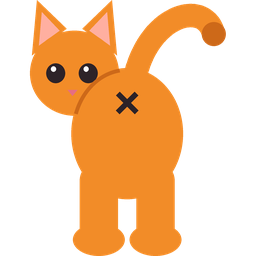
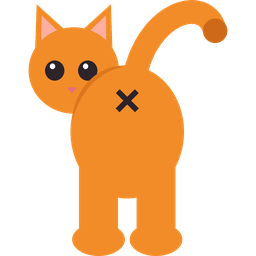
v0.7.0: single cat card, editable titles, responsive weight chart

diff --git a/custom_components/litter_cat_identifier/frontend/litter-cat-identifier-cards.js b/custom_components/litter_cat_identifier/frontend/litter-cat-identifier-cards.js
@@ -1,7 +1,8 @@
 /*
  * Litter Cat Identifier – dashboard cards.
  * Served by the integration and loaded automatically; no HACS frontend install needed.
- *   custom:litter-cat-identifier-cats     photo, name, weight, visits today, last visit
+ *   custom:litter-cat-identifier-cat      one cat: photo, name, weight, visits today, last visit
+ *   custom:litter-cat-identifier-cats     several cats together
  *   custom:litter-cat-identifier-visits   recent visits with reasons for unidentified readings
  *   custom:litter-cat-identifier-weight   weight history per cat (statistics graph)
  *   custom:litter-cat-identifier-box      clean now, auto-clean, today's summary
@@ -32,7 +33,10 @@ const I18N = {
       period: "Period", chart_type: "Chart type", stat: "Value", clean_entity: "Cleaning entity (switch, button or script)",
       auto_clean_entity: "Automatic cleaning switch (optional)", confirm: "Ask before cleaning", show_today: "Show today's summary",
       hour: "Hour", day: "Day", week: "Week", month: "Month", line: "Line", bar: "Bars", mean: "Average", min: "Minimum", max: "Maximum",
+      show_title: "Show title", cat: "Cat", cats: "Cats to show (empty = all)", layout: "Layout", horizontal: "Horizontal", vertical: "Vertical",
+      show_photo: "Show photo", avatar_size: "Photo size (px)", color: "Icon colour (when there's no photo)",
     },
+    pickCat: "Pick a cat in the card editor.",
   },
   es: {
     cats: "Gatos", visits: "Últimas visitas", weight: "Peso", box: "Arenero", none: "Sin visitas todavía",
@@ -54,7 +58,10 @@ const I18N = {
       period: "Periodo", chart_type: "Tipo de gráfica", stat: "Valor", clean_entity: "Entidad de limpieza (interruptor, botón o script)",
       auto_clean_entity: "Interruptor de limpieza automática (opcional)", confirm: "Preguntar antes de limpiar", show_today: "Mostrar resumen de hoy",
       hour: "Hora", day: "Día", week: "Semana", month: "Mes", line: "Línea", bar: "Barras", mean: "Media", min: "Mínimo", max: "Máximo",
+      show_title: "Mostrar título", cat: "Gato", cats: "Gatos a mostrar (vacío = todos)", layout: "Disposición", horizontal: "Horizontal", vertical: "Vertical",
+      show_photo: "Mostrar foto", avatar_size: "Tamaño de la foto (px)", color: "Color del icono (si no hay foto)",
     },
+    pickCat: "Elige un gato en el editor de la tarjeta.",
   },
 };
 
@@ -113,9 +120,13 @@ const STYLE = `
   .lci-cats { display: grid; grid-template-columns: repeat(var(--lci-cols, 2), minmax(0, 1fr)); gap: 12px; }
   .lci-cat { display: flex; align-items: center; gap: 12px; padding: 10px; border-radius: 12px;
              background: var(--secondary-background-color); cursor: pointer; min-width: 0; }
-  .lci-avatar { width: 52px; height: 52px; border-radius: 50%; flex: none; object-fit: cover;
+  .lci-cat.vertical { flex-direction: column; text-align: center; }
+  .lci-cat.vertical > div { width: 100%; }
+  .lci-single .lci-cat { background: none; padding: 0; }
+  .lci-avatar { width: var(--lci-avatar, 52px); height: var(--lci-avatar, 52px); border-radius: 50%; flex: none; object-fit: cover;
                 display: flex; align-items: center; justify-content: center;
-                background: var(--primary-background-color); color: var(--primary-color); }
+                background: var(--primary-background-color); color: var(--lci-color, var(--primary-color)); }
+  .lci-avatar ha-icon { --mdc-icon-size: calc(var(--lci-avatar, 52px) * 0.55); }
   .lci-name { font-weight: 600; font-size: 1.05em; overflow: hidden; text-overflow: ellipsis; white-space: nowrap; }
   .lci-kg { font-size: 1.3em; font-weight: 500; }
   .lci-sub { color: var(--secondary-text-color); font-size: 0.85em; }
@@ -160,12 +171,26 @@ class BaseCard extends HTMLElement {
     return ids.map((id) => hass.states[id]?.last_updated).join("|") + (hass.locale?.language || "");
   }
   shell(title, body) {
+    if (this._config && this._config.show_title === false) title = "";
     this.innerHTML = `<ha-card ${title ? `header="${esc(title)}"` : ""}><div class="lci">${body}</div></ha-card><style>${STYLE}</style>`;
   }
   getCardSize() { return 3; }
 }
 
 /* ---------- visual editor (ha-form) ---------- */
+// ha-form is lazy-loaded by the frontend; make sure it exists before an editor opens.
+async function loadHaForm() {
+  if (customElements.get("ha-form")) return;
+  try {
+    const helpers = await window.loadCardHelpers();
+    const card = await helpers.createCardElement({ type: "entities", entities: [] });
+    await card?.constructor?.getConfigElement?.();
+  } catch (e) { /* the editor still opens; HA falls back to YAML if needed */ }
+  if (!customElements.get("ha-form")) {
+    await Promise.race([customElements.whenDefined("ha-form"), new Promise((r) => setTimeout(r, 3000))]);
+  }
+}
+
 function makeEditor(schemaFn) {
   return class extends HTMLElement {
     setConfig(config) { this._config = { ...config }; this._render(); }
@@ -185,7 +210,7 @@ function makeEditor(schemaFn) {
         this.appendChild(this._form);
       }
       this._form.hass = this._hass;
-      this._form.schema = schemaFn(T);
+      this._form.schema = schemaFn(T, this._hass, this._config);
       this._form.data = this._config;
     }
   };
@@ -194,52 +219,96 @@ function makeEditor(schemaFn) {
 const sel = (T, options) => ({ select: { mode: "dropdown", options: options.map((o) => ({ value: o, label: T.l[o] || o })) } });
 const COMMON = () => [
   { name: "device_id", selector: { device: { integration: DOMAIN } } },
-  { name: "title", selector: { text: {} } },
+  { type: "grid", name: "", schema: [
+    { name: "title", selector: { text: {} } },
+    { name: "show_title", selector: { boolean: {} }, default: true },
+  ] },
 ];
+const catNames = (hass, config) => (findBox(hass, config?.device_id)?.cats || []).map((c) => c.name);
+const avatarSchema = (T) => [{ type: "grid", name: "", schema: [
+  { name: "layout", selector: sel(T, ["horizontal", "vertical"]) },
+  { name: "avatar_size", selector: { number: { min: 24, max: 200, step: 4, mode: "box", unit_of_measurement: "px" } } },
+] }];
+const showSchema = () => [{ type: "grid", name: "", schema: [
+  { name: "show_photo", selector: { boolean: {} }, default: true },
+  { name: "show_weight", selector: { boolean: {} }, default: true },
+  { name: "show_visits", selector: { boolean: {} }, default: true },
+  { name: "show_last", selector: { boolean: {} }, default: true },
+] }];
+
+/** One cat tile, shared by the Cats and Cat cards. */
+function catTile(hass, T, c, cat) {
+  const w = hass.states[cat.weight];
+  const pic = on(c.show_photo) && w?.attributes?.entity_picture;
+  const kg = w && !isNaN(parseFloat(w.state)) ? `${parseFloat(w.state).toFixed(2)} kg` : "–";
+  const visits = hass.states[cat.visits]?.state ?? "0";
+  const last = hass.states[cat.last]?.state;
+  const lastTxt = last && !["unknown", "unavailable"].includes(last) ? `${T.last} ${fmtTime(hass, last)}` : T.never;
+  const sub = [on(c.show_visits) ? T.today(esc(visits)) : null, on(c.show_last) ? lastTxt : null].filter(Boolean).join(" · ");
+  const avatar = pic
+    ? `<img class="lci-avatar" src="${esc(pic)}" alt="">`
+    : `<div class="lci-avatar"><ha-icon icon="mdi:cat"></ha-icon></div>`;
+  const style = [c.avatar_size ? `--lci-avatar:${Number(c.avatar_size)}px` : "", c.color ? `--lci-color:${esc(c.color)}` : ""].join(";");
+  return `<div class="lci-cat ${c.layout === "vertical" ? "vertical" : ""}" style="${style}" data-entity="${esc(cat.weight)}">${avatar}
+    <div style="min-width:0"><div class="lci-name">${esc(cat.name)}</div>
+    ${on(c.show_weight) ? `<div class="lci-kg">${kg}</div>` : ""}${sub ? `<div class="lci-sub">${sub}</div>` : ""}</div></div>`;
+}
 
 /* ---------- cats ---------- */
 class CatsCard extends BaseCard {
   static getStubConfig() { return { columns: 2 }; }
-  static getConfigElement() { return document.createElement("litter-cat-identifier-cats-editor"); }
+  static async getConfigElement() { await loadHaForm(); return document.createElement("litter-cat-identifier-cats-editor"); }
   render(hass, box) {
     const T = t(hass), c = this._config;
     const title = c.title ?? T.cats;
     if (!box) return this.shell(title, `<div class="lci-empty">${T.notFound}</div>`);
-    const tiles = box.cats.map((cat) => {
-      const w = hass.states[cat.weight];
-      const pic = w?.attributes?.entity_picture;
-      const kg = w && !isNaN(parseFloat(w.state)) ? `${parseFloat(w.state).toFixed(2)} kg` : "–";
-      const visits = hass.states[cat.visits]?.state ?? "0";
-      const last = hass.states[cat.last]?.state;
-      const lastTxt = last && !["unknown", "unavailable"].includes(last) ? `${T.last} ${fmtTime(hass, last)}` : T.never;
-      const sub = [on(c.show_visits) ? T.today(esc(visits)) : null, on(c.show_last) ? lastTxt : null].filter(Boolean).join(" · ");
-      const avatar = pic
-        ? `<img class="lci-avatar" src="${esc(pic)}" alt="">`
-        : `<div class="lci-avatar"><ha-icon icon="mdi:cat"></ha-icon></div>`;
-      return `<div class="lci-cat" data-entity="${esc(cat.weight)}">${avatar}
-        <div style="min-width:0"><div class="lci-name">${esc(cat.name)}</div>
-        ${on(c.show_weight) ? `<div class="lci-kg">${kg}</div>` : ""}${sub ? `<div class="lci-sub">${sub}</div>` : ""}</div></div>`;
-    });
+    const wanted = Array.isArray(c.cats) && c.cats.length ? c.cats : null;
+    const tiles = box.cats.filter((cat) => !wanted || wanted.includes(cat.name)).map((cat) => catTile(hass, T, c, cat));
     this.shell(title, `<div class="lci-cats" style="--lci-cols:${Number(c.columns) || 2}">${tiles.join("")}</div>`);
     this.querySelectorAll(".lci-cat").forEach((el) => el.addEventListener("click", () => moreInfo(this, el.dataset.entity)));
   }
   getCardSize() { return 2; }
   getGridOptions() { return { columns: 12, min_columns: 4 }; }
 }
-const CatsEditor = makeEditor(() => [
+const CatsEditor = makeEditor((T, hass, config) => [
   ...COMMON(),
-  { name: "columns", selector: { number: { min: 1, max: 4, mode: "box" } } },
-  { type: "grid", name: "", schema: [
-    { name: "show_weight", selector: { boolean: {} }, default: true },
-    { name: "show_visits", selector: { boolean: {} }, default: true },
-    { name: "show_last", selector: { boolean: {} }, default: true },
-  ] },
+  { name: "cats", selector: { select: { multiple: true, mode: "list", options: catNames(hass, config) } } },
+  { name: "columns", selector: { number: { min: 1, max: 6, mode: "box" } } },
+  ...avatarSchema(T),
+  ...showSchema(),
+]);
+
+/* ---------- single cat ---------- */
+class CatCard extends BaseCard {
+  static getStubConfig(hass) {
+    const first = hass && findBox(hass)?.cats[0];
+    return { cat: first?.name || "", show_title: false };
+  }
+  static async getConfigElement() { await loadHaForm(); return document.createElement("litter-cat-identifier-cat-editor"); }
+  render(hass, box) {
+    const T = t(hass), c = this._config;
+    const title = c.title ?? c.cat ?? "";
+    if (!box) return this.shell(title, `<div class="lci-empty">${T.notFound}</div>`);
+    const cat = box.cats.find((x) => x.name === c.cat);
+    if (!cat) return this.shell(title, `<div class="lci-empty">${T.pickCat}</div>`);
+    this.shell(title, `<div class="lci-single">${catTile(hass, T, c, cat)}</div>`);
+    this.querySelector(".lci-cat")?.addEventListener("click", () => moreInfo(this, cat.weight));
+  }
+  getCardSize() { return 2; }
+  getGridOptions() { return { columns: 6, min_columns: 3 }; }
+}
+const CatEditor = makeEditor((T, hass, config) => [
+  { name: "cat", required: true, selector: { select: { mode: "dropdown", options: catNames(hass, config) } } },
+  ...COMMON(),
+  ...avatarSchema(T),
+  { name: "color", selector: { text: {} } },
+  ...showSchema(),
 ]);
 
 /* ---------- visits ---------- */
 class VisitsCard extends BaseCard {
   static getStubConfig() { return { count: 8 }; }
-  static getConfigElement() { return document.createElement("litter-cat-identifier-visits-editor"); }
+  static async getConfigElement() { await loadHaForm(); return document.createElement("litter-cat-identifier-visits-editor"); }
   render(hass, box) {
     const T = t(hass), c = this._config;
     const title = c.title ?? T.visits;
@@ -295,7 +364,7 @@ const VisitsEditor = makeEditor(() => [
 /* ---------- weight ---------- */
 class WeightCard extends BaseCard {
   static getStubConfig() { return { days: 7 }; }
-  static getConfigElement() { return document.createElement("litter-cat-identifier-weight-editor"); }
+  static async getConfigElement() { await loadHaForm(); return document.createElement("litter-cat-identifier-weight-editor"); }
   async render(hass, box) {
     const T = t(hass), c = this._config;
     const days = Number(c.days) || 7;
@@ -310,11 +379,14 @@ class WeightCard extends BaseCard {
       chart_type: c.chart_type || "line",
       entities: box.cats.map((cat) => ({ entity: cat.weight, name: cat.name })),
     };
+    if (c.grid_options) cfg.grid_options = c.grid_options;
     const key = JSON.stringify(cfg);
     if (this._graphKey !== key) {
       this._graphKey = key;
       const helpers = await window.loadCardHelpers();
       this._graph = helpers.createCardElement(cfg);
+      this._graph.style.height = "100%";
+      if (this._layout) this._graph.layout = this._layout;
       this.innerHTML = "";
       this.appendChild(this._graph);
     }
@@ -329,8 +401,12 @@ class WeightCard extends BaseCard {
     if (this._graph) this._graph.hass = hass;
   }
   get hass() { return this._hass; }
+  // sections dashboards set layout="grid" and size the card; pass that on so the chart fills it
+  set layout(v) { this._layout = v; if (this._graph) this._graph.layout = v; }
+  get layout() { return this._layout; }
+  connectedCallback() { this.style.display = "block"; this.style.height = "100%"; }
   getCardSize() { return 5; }
-  getGridOptions() { return { columns: 12, min_columns: 6 }; }
+  getGridOptions() { return { columns: 12, min_columns: 4, rows: 5, min_rows: 3 }; }
 }
 const WeightEditor = makeEditor((T) => [
   ...COMMON(),
@@ -345,7 +421,7 @@ const WeightEditor = makeEditor((T) => [
 /* ---------- litter box ---------- */
 class BoxCard extends BaseCard {
   static getStubConfig() { return { confirm: true }; }
-  static getConfigElement() { return document.createElement("litter-cat-identifier-box-editor"); }
+  static async getConfigElement() { await loadHaForm(); return document.createElement("litter-cat-identifier-box-editor"); }
   signature(hass, box) {
     const c = this._config || {};
     return super.signature(hass, box) + [c.clean_entity, c.auto_clean_entity].map((id) => id && hass.states[id]?.last_updated).join("|");
@@ -395,6 +471,8 @@ const BoxEditor = makeEditor(() => [
 const define = (tag, cls) => { if (!customElements.get(tag)) customElements.define(tag, cls); };
 define("litter-cat-identifier-cats", CatsCard);
 define("litter-cat-identifier-cats-editor", CatsEditor);
+define("litter-cat-identifier-cat", CatCard);
+define("litter-cat-identifier-cat-editor", CatEditor);
 define("litter-cat-identifier-visits", VisitsCard);
 define("litter-cat-identifier-visits-editor", VisitsEditor);
 define("litter-cat-identifier-weight", WeightCard);
@@ -404,7 +482,8 @@ define("litter-cat-identifier-box-editor", BoxEditor);
 
 window.customCards = window.customCards || [];
 for (const [type, name, description] of [
-  ["litter-cat-identifier-cats", "Litter Cat Identifier – Cats", "Photo, name, weight, visits today and last visit for each cat."],
+  ["litter-cat-identifier-cat", "Litter Cat Identifier – Cat", "One cat: photo, name, weight, visits today and last visit."],
+  ["litter-cat-identifier-cats", "Litter Cat Identifier – Cats", "All (or some) cats together: photo, name, weight, visits today and last visit."],
   ["litter-cat-identifier-visits", "Litter Cat Identifier – Recent visits", "Latest litter box visits, with the likely reason for unidentified readings."],
   ["litter-cat-identifier-weight", "Litter Cat Identifier – Weight", "Weight history of each cat."],
   ["litter-cat-identifier-box", "Litter Cat Identifier – Litter box", "Clean now, automatic cleaning and today's visits."],

diff --git a/README.md b/README.md
@@ -9,7 +9,6 @@
 [![Hassfest](https://img.shields.io/github/actions/workflow/status/cruzpazv/litter-cat-identifier/hassfest.yml?branch=main&label=Hassfest&logo=github)](https://github.com/cruzpazv/litter-cat-identifier/actions/workflows/hassfest.yml)
 [![HACS validation](https://img.shields.io/github/actions/workflow/status/cruzpazv/litter-cat-identifier/hacs.yml?branch=main&label=HACS%20validation&logo=github)](https://github.com/cruzpazv/litter-cat-identifier/actions/workflows/hacs.yml)
 [![License](https://img.shields.io/github/license/cruzpazv/litter-cat-identifier?color=yellow)](LICENSE)
-[![Installs](https://img.shields.io/badge/dynamic/json?label=Installs&color=olive&url=https%3A%2F%2Fanalytics.home-assistant.io%2Fcustom_integrations.json&query=%24.litter_cat_identifier.total)](https://analytics.home-assistant.io/)
 [![Version](https://img.shields.io/badge/dynamic/json?label=VERSION&color=blue&url=https%3A%2F%2Fraw.githubusercontent.com%2Fcruzpazv%2Flitter-cat-identifier%2Fmain%2Fcustom_components%2Flitter_cat_identifier%2Fmanifest.json&query=%24.version)](custom_components/litter_cat_identifier/manifest.json)
 [![Home Assistant](https://img.shields.io/badge/dynamic/json?label=HOME%20ASSISTANT&color=41BDF5&prefix=%3E%3D&url=https%3A%2F%2Fraw.githubusercontent.com%2Fcruzpazv%2Flitter-cat-identifier%2Fmain%2Fhacs.json&query=%24.homeassistant)](https://www.home-assistant.io/)
 
@@ -25,7 +24,7 @@ Home Assistant integration that tells your cats apart by weight on any automatic
 - Unidentified readings come with a **likely reason**: a cat half inside right after its visit (and which cat), or a litter refill
 - **Recalibrate** a cat's weight from its latest readings with one button
 - Hide unidentified readings in the visits card, clear them with one button, or don't record them at all
-- **Ready-made dashboard cards** with visual editors: cats, recent visits, weight history and litter box controls (clean now)
+- **Ready-made dashboard cards** with visual editors: one cat or several, recent visits, weight history and litter box controls (clean now)
 - Service to fix a misidentified visit
 - No cloud, no dependencies, config flow UI, English + Spanish
 
@@ -138,12 +137,13 @@ The integration ships its own cards. Edit a dashboard → **Add card** → searc
 
 | Card | Shows | Editor options |
 |---|---|---|
-| **Cats** (`custom:litter-cat-identifier-cats`) | Photo, name, weight, visits today and last visit of each cat | cats per row, which details to show |
+| **Cat** (`custom:litter-cat-identifier-cat`) | One cat: photo, name, weight, visits today and last visit | cat, horizontal/vertical layout, photo size, icon colour, which details to show |
+| **Cats** (`custom:litter-cat-identifier-cats`) | Several cats together | which cats, cats per row, layout, photo size, which details to show |
 | **Recent visits** (`custom:litter-cat-identifier-visits`) | Latest visits; unidentified ones show a **(?)** with the likely reason (hover, or tap on touch screens), and a 👁 button hides/shows them | number of visits, weight/duration columns, hide button |
-| **Weight** (`custom:litter-cat-identifier-weight`) | Weight history per cat | days, period (hour/day/week/month), line or bars, average/min/max |
+| **Weight** (`custom:litter-cat-identifier-weight`) | Weight history per cat; the chart fills the card size | days, period (hour/day/week/month), line or bars, average/min/max |
 | **Litter box** (`custom:litter-cat-identifier-box`) | **Clean now** button, automatic-cleaning switch, today's visits per cat | cleaning entity (switch, button or script from your litter box integration), auto-clean switch, confirmation |
 
-They find your litter box and cats automatically and follow your Home Assistant language (English/Spanish). All cards also accept `title` and `device_id` (only needed with more than one litter box).
+They find your litter box and cats automatically and follow your Home Assistant language (English/Spanish). All cards also accept `title`, `show_title: false` (hide the header) and `device_id` (only needed with more than one litter box).
 
 YAML example:
 
